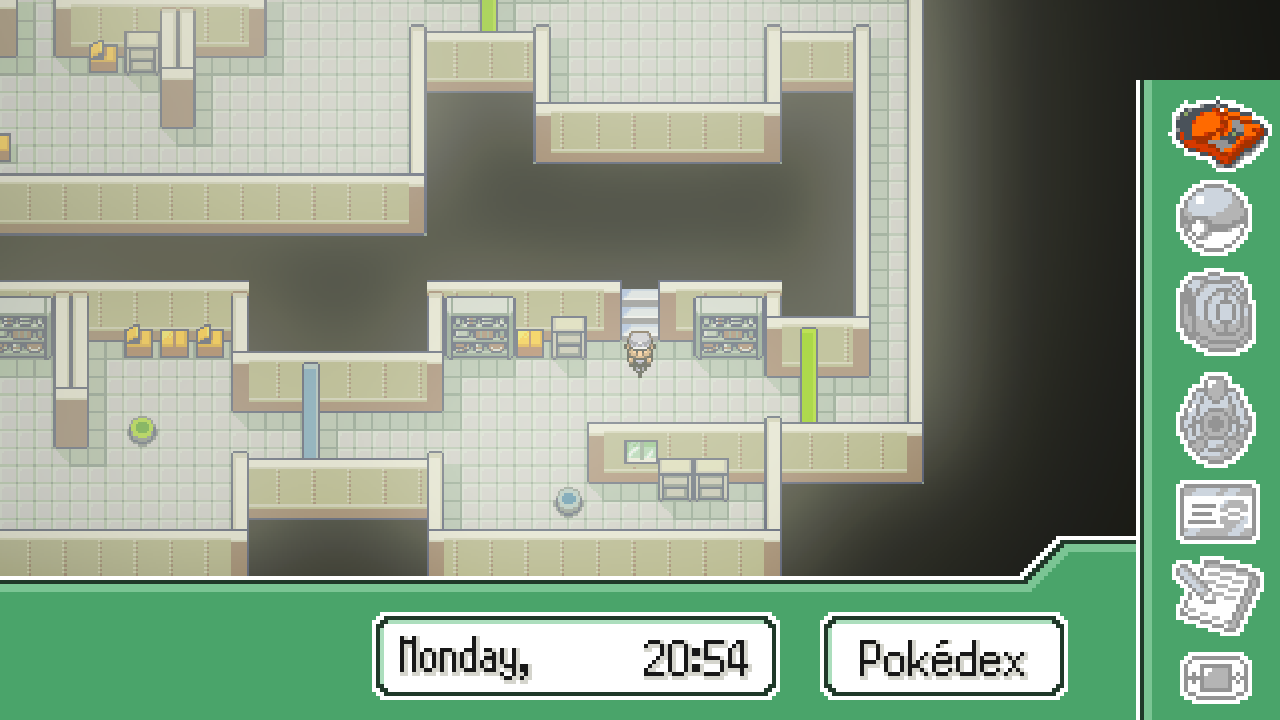
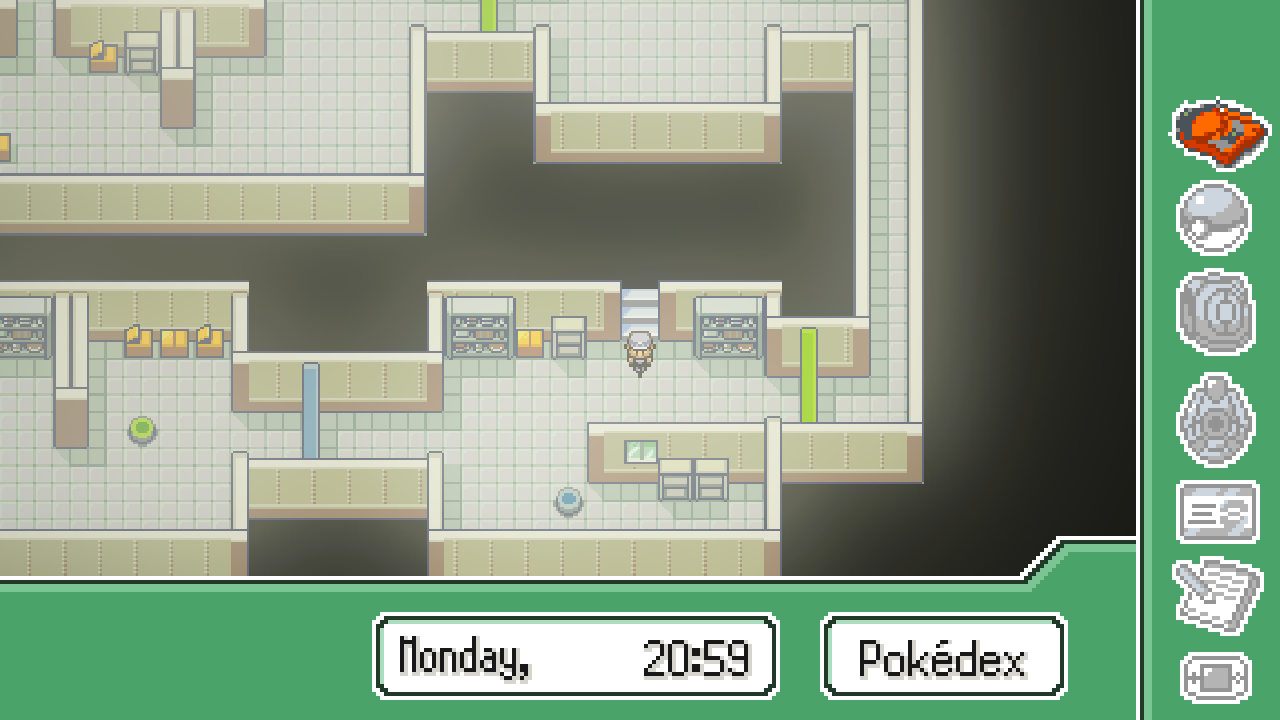
POL-6: the start menu's right column also runs to the top of the screen
Claude-Session: https://claude.ai/code/session_014PwRDjXGcLJqqHGfgN6Bdc

Changed region(s): [[0.875, 0.0, 1.0, 0.1222], [0.5625, 0.8861, 0.5938, 0.9472]]

diff --git a/src/platform/sdl2.c b/src/platform/sdl2.c
@@ -908,6 +908,14 @@ static void DrawFieldScene(double t, int outW, int outH)
             SDL_Rect bd = {0, uy + (int)(BAR_TOP * s), ux, (int)((DISPLAY_HEIGHT - BAR_TOP) * s)};
             SDL_RenderCopy(sdlRenderer, sdlUiTexture, &bs, &bd);
         }
+        if (uy > 0 && Vol_StartMenu_IsSwshOpen())
+        {
+            // ...and its right-hand column runs from the screen's top: the GBA screen's first row (the
+            // column's border and green, no icons; see-through elsewhere) carries on upwards.
+            SDL_Rect cs = {sFrameInfo.gbaX, sFrameInfo.gbaY, DISPLAY_WIDTH, 1};
+            SDL_Rect cd = {ux, 0, (int)(DISPLAY_WIDTH * s), uy};
+            SDL_RenderCopy(sdlRenderer, sdlUiTexture, &cs, &cd);
+        }
         sUiPlaceX = ux;
         sUiPlaceY = uy;
         sUiPlaceS = s3DFrame ? s : 0;

diff --git a/docs/POLISH_TASKS.md b/docs/POLISH_TASKS.md
@@ -404,6 +404,9 @@ Add under each item: what was found, what was changed, files, how to test, what 
     bar on to the left edge (its first column, GBA rows 124-159: edge lines and green, no text) while the
     Sword/Shield start menu is open (`Vol_StartMenu_IsSwshOpen`, `src/vol_start_menu.c`). Classic menu untouched.
     Picture: `docs/polish_reports/POL-6_start_menu_bar_full_width.png` (1280x720 window, Brennan's save).
+  - Brennan 20:58: "the right side top it also runs from top to bottom". Done: when the window is taller than the
+    menu, the GBA screen's first row (the right column's border and green, no icons) carries on up to the top edge.
+    Same picture, updated.
 - **POL-35 (new, priority after POL-6). Fishing bites:** Brennan 2026-11-15 20:12: "when fishing in the water for
   pokemon, make it only one "Oh! A bite!" before you can get into battle with it. currently it makes you wait 3 times
   in order to get into a battle with the pokemon."
